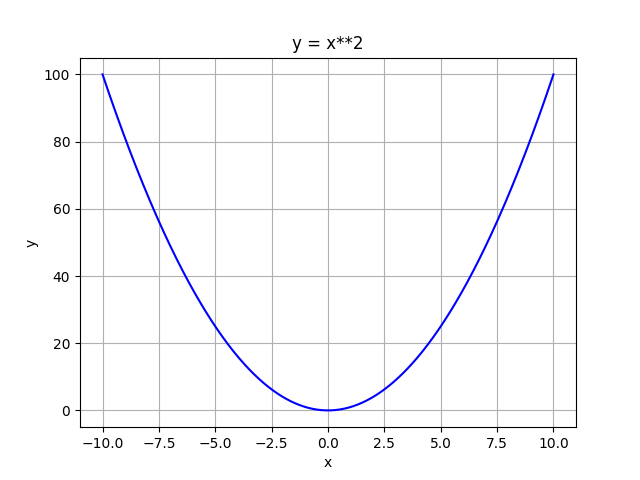
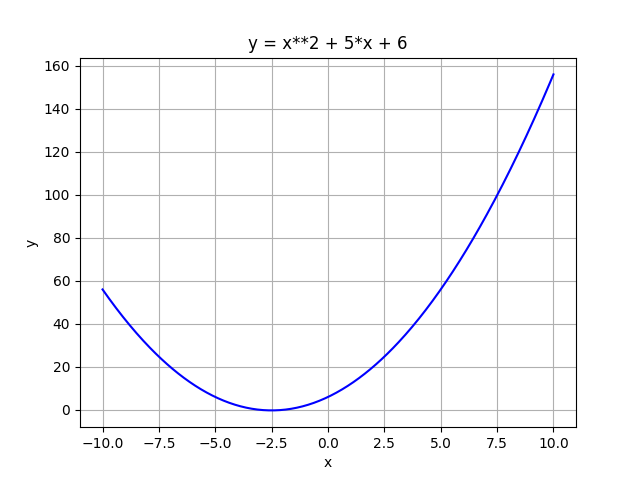
classwork27-01-2026

diff --git a/flask-math-plot/templates/index.html b/flask-math-plot/templates/index.html
@@ -1,33 +1,36 @@
 <!DOCTYPE html>
 <html>
 <head>
-    <title>Math Plotter</title>
+    <title>LLM Function Plotter</title>
 </head>
 <body>
-    <h1>Function Plotter</h1>
 
-    <form method="post">
-        <label>Expression:</label><br>
-        <input type="text" name="expression" value="{{ expression }}" size="40"><br><br>
+<h1>LLM-powered Function Plotter</h1>
 
-        <label>Interval:</label><br>
-        a = <input type="number" step="any" name="a" value="{{ a }}">
-        b = <input type="number" step="any" name="b" value="{{ b }}"><br><br>
+<form method="post">
+    <label>Describe the function:</label><br>
+    <input type="text" name="expression" value="{{ user_text }}" size="60"><br><br>
 
-        <label>Color:</label><br>
-        <select name="color">
-            <option value="blue"  {% if color == "blue" %}selected{% endif %}>Blue</option>
-            <option value="red"   {% if color == "red" %}selected{% endif %}>Red</option>
-            <option value="black" {% if color == "black" %}selected{% endif %}>Black</option>
-        </select><br><br>
+    <label>Interval:</label><br>
+    a = <input type="number" step="any" name="a" value="{{ a }}">
+    b = <input type="number" step="any" name="b" value="{{ b }}"><br><br>
 
-        <button type="submit">Make a plot</button>
-    </form>
+    <label>Color:</label><br>
+    <select name="color">
+        <option value="blue"  {% if color == "blue" %}selected{% endif %}>Blue</option>
+        <option value="red"   {% if color == "red" %}selected{% endif %}>Red</option>
+        <option value="black" {% if color == "black" %}selected{% endif %}>Black</option>
+    </select><br><br>
 
-    <hr>
+    <button type="submit">Make a plot</button>
+</form>
 
-    <h2>Plot</h2>
-    <img src="{{ url_for('static', filename='plot.png') }}?{{ expression }}" alt="Plot">
+<hr>
+
+{% if expression %}
+<p><b>Generated expression:</b> {{ expression }}</p>
+<img src="{{ url_for('static', filename='plot.png') }}?{{ expression }}" alt="Plot">
+{% endif %}
 
 </body>
 </html>

diff --git a/flask-math-plot/app.py b/flask-math-plot/app.py
@@ -4,29 +4,64 @@ import matplotlib
 matplotlib.use("Agg")
 import matplotlib.pyplot as plt
 import math
+import os
+import requests
+from dotenv import load_dotenv
+
+load_dotenv()
+MISTRAL_API_KEY = os.getenv("MISTRAL_API_KEY")
 
 app = Flask(__name__)
 
+def llm_to_expression(user_request):
+    url = "https://api.mistral.ai/v1/chat/completions"
+
+    headers = {
+        "Authorization": f"Bearer {MISTRAL_API_KEY}",
+        "Content-Type": "application/json"
+    }
+
+    prompt = f"""
+Convert the following user request into a valid Python mathematical
+expression using variable x.
+
+Rules:
+- Use only x, math, or numpy
+- Do not explain anything
+- Output ONLY the expression
+
+User request:
+{user_request}
+"""
+
+    data = {
+        "model": "mistral-small",
+        "messages": [{"role": "user", "content": prompt}],
+        "temperature": 0
+    }
+
+    response = requests.post(url, headers=headers, json=data)
+    return response.json()["choices"][0]["message"]["content"].strip()
+
 @app.route("/", methods=["GET", "POST"])
 def index():
-    expression = "x**2"
+    user_text = ""
+    expression = ""
     a, b = -10, 10
     color = "blue"
 
     if request.method == "POST":
-        expression = request.form.get("expression", expression)
+        user_text = request.form.get("expression", "")
         a = float(request.form.get("a", a))
         b = float(request.form.get("b", b))
         color = request.form.get("color", color)
 
+        expression = llm_to_expression(user_text)
+
         x = np.linspace(a, b, 400)
 
         try:
-            y = eval(expression, {
-                "x": x,
-                "math": math,
-                "np": np
-            })
+            y = eval(expression, {"x": x, "math": math, "np": np})
 
             plt.figure()
             plt.plot(x, y, color=color)
@@ -35,7 +70,6 @@ def index():
             plt.title(f"y = {expression}")
             plt.grid(True)
             plt.savefig("static/plot.png")
-            print("PLOT SAVED!")
             plt.close()
 
         except Exception as e:
@@ -43,6 +77,7 @@ def index():
 
     return render_template(
         "index.html",
+        user_text=user_text,
         expression=expression,
         a=a,
         b=b,

diff --git a/flask-math-plot/mistral_api_demo.py b/flask-math-plot/mistral_api_demo.py
@@ -1,0 +1,28 @@
+import os
+import requests
+from dotenv import load_dotenv
+
+load_dotenv()
+
+API_KEY = os.getenv("MISTRAL_API_KEY")
+
+url = "https://api.mistral.ai/v1/chat/completions"
+
+headers = {
+    "Authorization": f"Bearer {API_KEY}",
+    "Content-Type": "application/json"
+}
+
+data = {
+    "model": "mistral-small",
+    "messages": [
+        {
+            "role": "user",
+            "content": "Convert 'plot a sine wave' into a Python expression using x"
+        }
+    ],
+    "temperature": 0
+}
+
+response = requests.post(url, headers=headers, json=data)
+print(response.json()["choices"][0]["message"]["content"])
